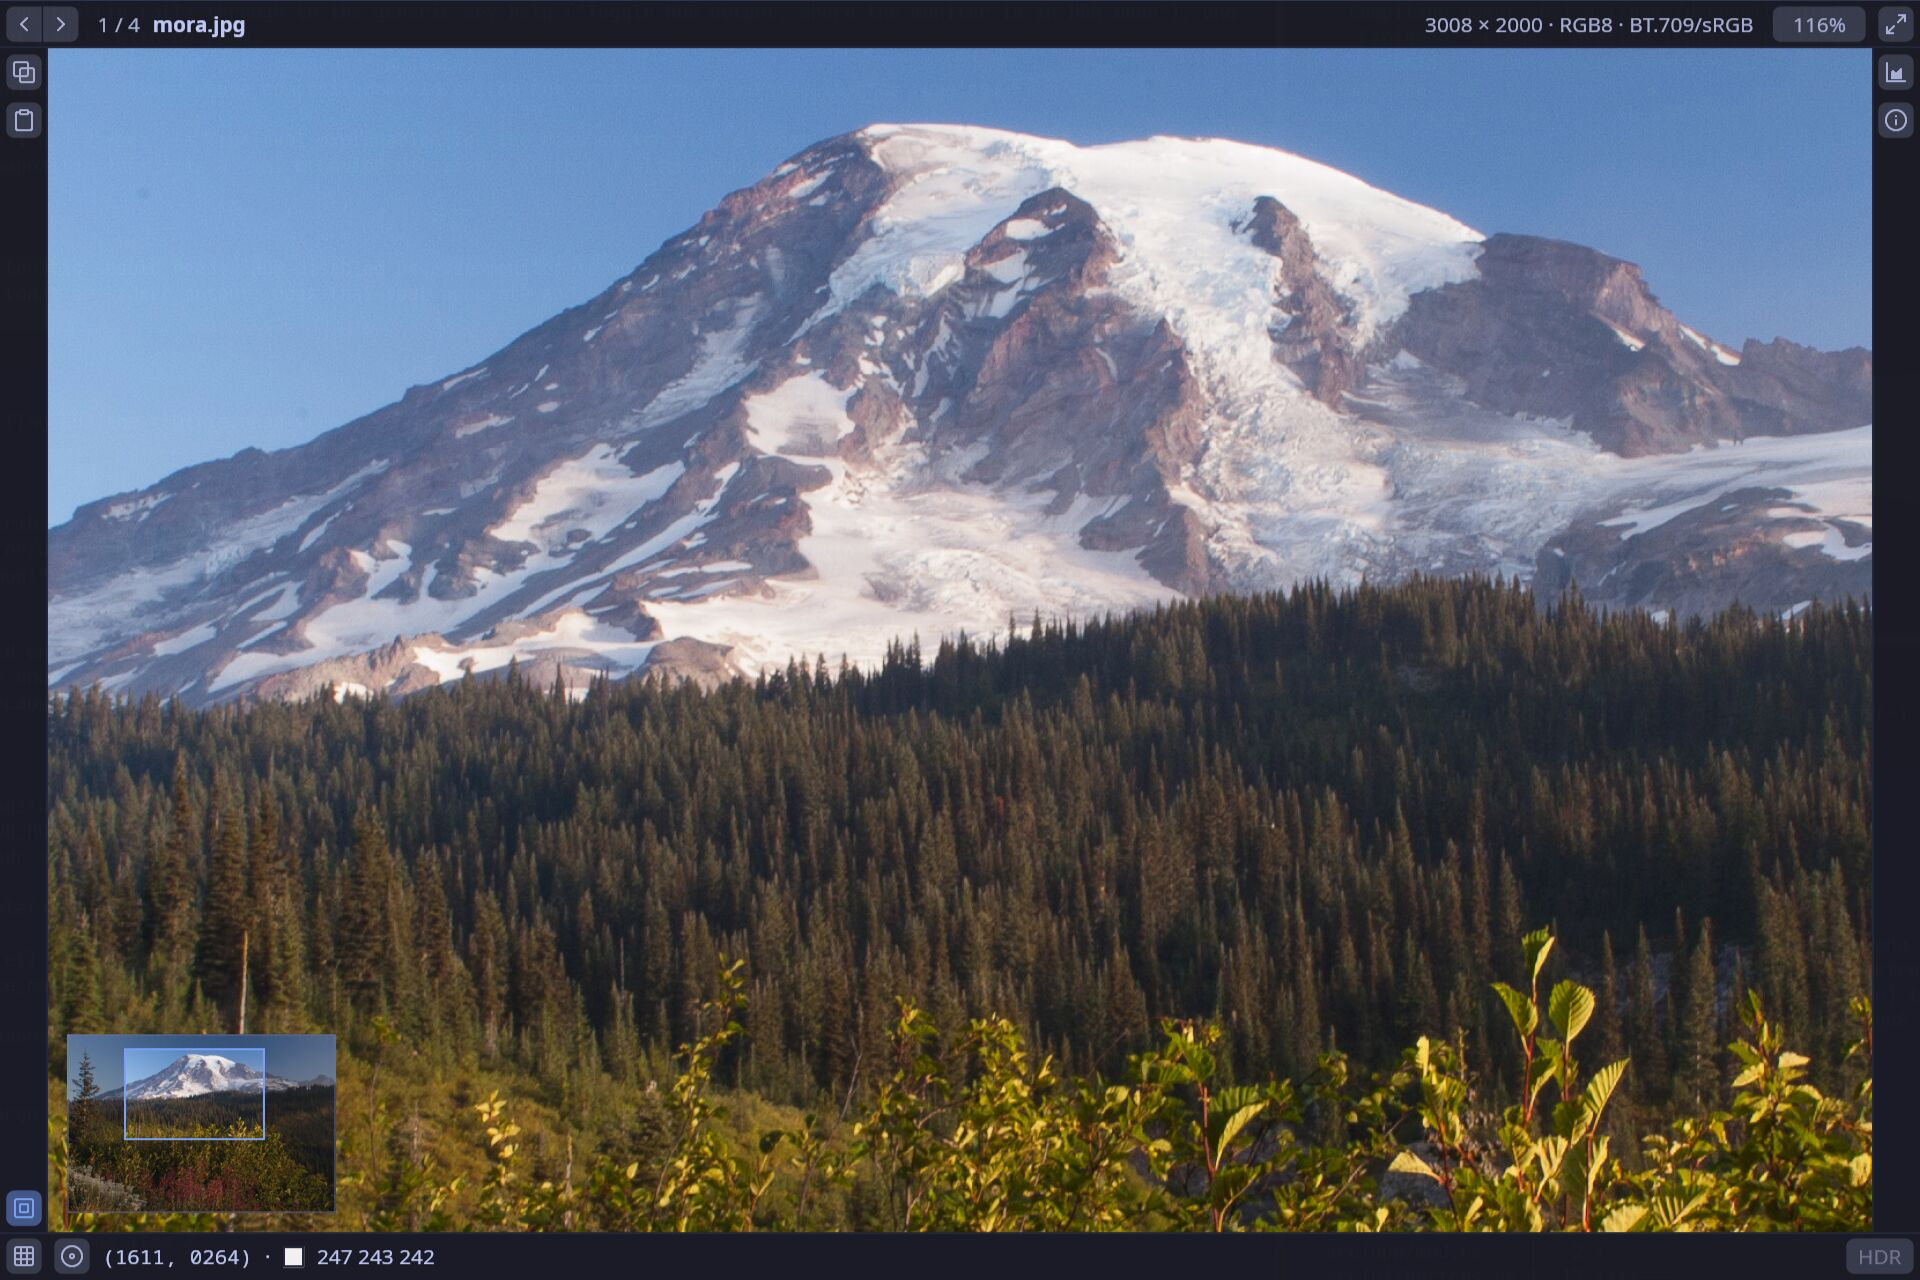
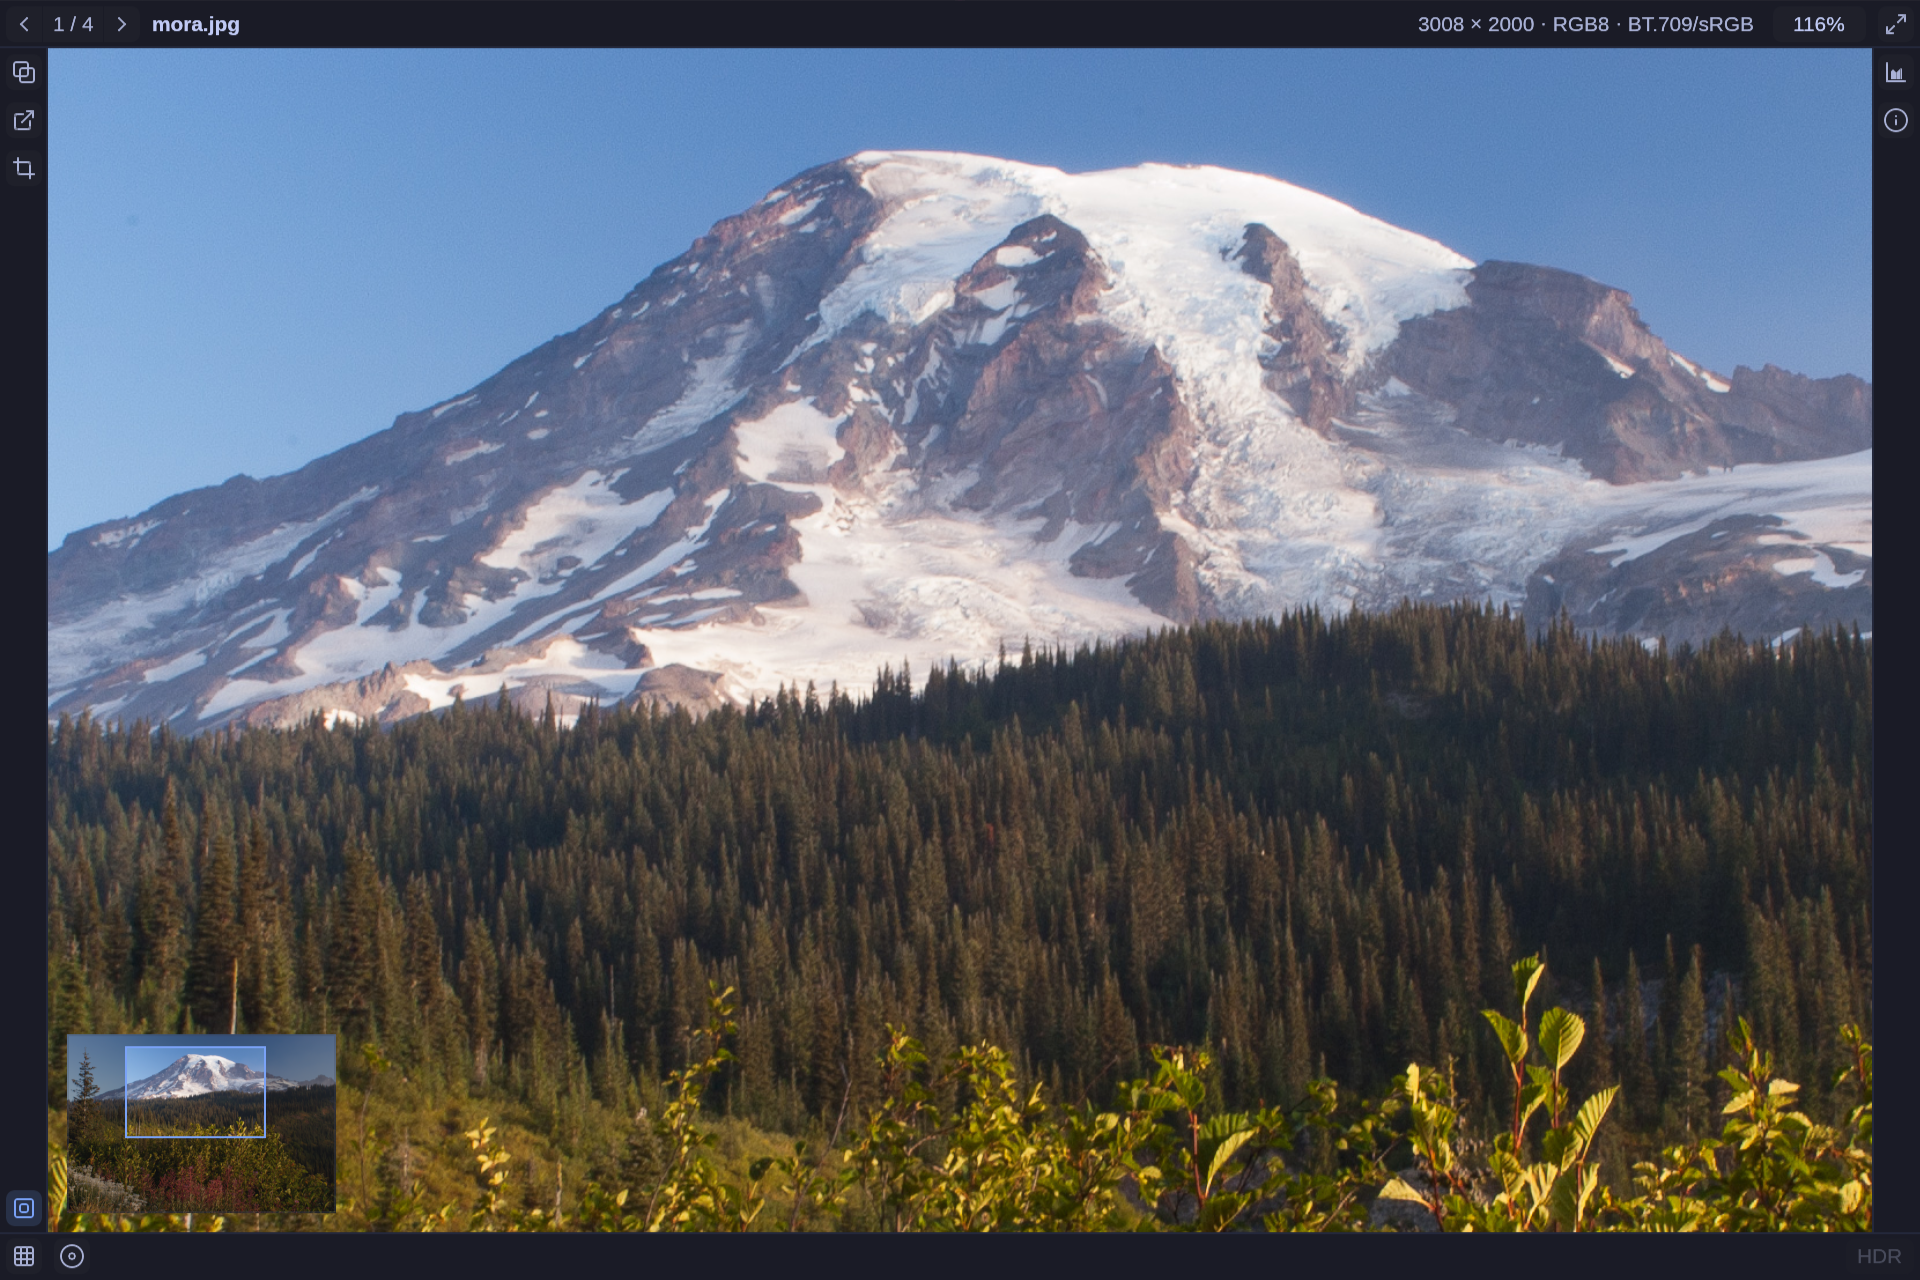
Update README

diff --git a/README.md b/README.md
@@ -12,7 +12,7 @@ All features can be keyboard driven but the hideable UI also contains discoverab
 
 ### OS themed
 
-Respects OS theme colors. Here's an example of Omarchy's Lupine and Tokyo Night themes.
+Respects OS theme colors. Here's an example of Omarchy's Tokyo Night and Gruvbox themes.
 
 ![Themes side by side](user-docs/screenshots/themes.gif)
 
@@ -22,7 +22,9 @@ Respects OS theme colors. Here's an example of Omarchy's Lupine and Tokyo Night 
 o.window("com.dcervelli.gamut", { float = true, center = true, tag = "-default-opacity", opacity = "1 1" })
 ```
 
-This will have the window open centered and floating with a reasonable and dynamic default size. For accurate image viewing, the window should be forced fully opaque.
+This will make the window open centered and floating with a reasonable, dynamic default size. For accurate image viewing, the window should be forced fully opaque.
+
+### Region selection/measurement
 
 ### Copy image
 
@@ -58,11 +60,11 @@ Luminance and per-channel histogram, with a linear or log count axis. Exposure i
 
 ### HDR
 
-Follows the monitor: an HDR surface where the compositor says the monitor is in HDR mode, SDR otherwise, and never asks the compositor to switch. PQ, HLG, OpenEXR, Radiance HDR and Ultra HDR gain-map JPEGs are shown at their graded brightness on an HDR surface and tone mapped on an SDR one. `o` toggles, `--output` forces.
+When available on the monitor, HDR sources are shown at their graded brightness. Tone mapped for SDR.
 
 ### Fuzzy file navigation
 
-`Ctrl+P` opens a chooser over the image. Type to filter the file list fuzzily (`dsc17` finds `DSC_0017.JPG`), across directories when the list spans more than one. Each row has a thumbnail, type, position in the list and size. Thumbnails are the freedesktop cache's own: ones the file manager made are reused, ones made here are written back.
+`ctrl+p` style navigation over the file list with thumbnails and helpful metadata per row. Thumbnails integrated into desktop cache.
 
 ### Animated/multi-image formats
 
@@ -76,11 +78,19 @@ Untagged files are treated as sRGB. ICC profiles (sRGB, Display P3, BT.2020 and 
 
 ### File comparison
 
-Every file is remembered as it was left: pan, zoom, window, exposure, tone map and false color. Flipping between two files with `[` and `]` therefore compares them rather than resetting them. A file opened for the first time inherits the current pan and zoom when it is the same size, so a directory of frames or exposures stays aligned under the same pixels.
+Navigating between images with the same dimensions maintains pan and zoom making detailed image comparison straightforward.
+
+This example compares a zoomed in region across DEM, hillshade, and relief images.
+
+![File comparison example](user-docs/screenshots/compare.gif)
 
 ### File/directory watch
 
-The file on screen is re-read within about half a second of anything writing to it, keeping pan, zoom and display settings. A directory named on the command line is re-listed as images are added or removed, so a render dropping frames into a folder builds the list as you watch. A file deleted from under the viewer stays on screen, marked `DELETED`.
+Files and directories are watched for changes, additions, or deletions. 
+
+In this example, a simple program is zooming into a point on the Mandelbrot set and updating an image every second.
+
+![Mandelbrot zoom via File Update](user-docs/screenshots/mandelbrot.gif)
 
 ### Metadata/EXIF extraction
 
@@ -90,15 +100,13 @@ Get file, image, EXIF, georeference, and other metadata. Easily copy all, by sec
 
 ### Many formats
 
-PNG, JPEG (with gain maps), JPEG XL, TIFF and BigTIFF, WebP, HEIF (HEIC and
-AVIF), GIF, ICO, BMP, netpbm, Radiance HDR and OpenEXR. 
-More details in [`user-docs/FORMATS.md`](user-docs/FORMATS.md).
+PNG, JPEG (with gain maps), JPEG XL, TIFF and BigTIFF, WebP, HEIF (HEIC and AVIF), GIF, ICO, BMP, netpbm, Radiance HDR and OpenEXR. More details in [`user-docs/FORMATS.md`](user-docs/FORMATS.md).
 
 ### Fast GPU display
 
 Decoding, uploading and thumbnailing run on their own threads; large TIFFs, HEICs and gain maps decode across every core. Exposure, window, tone map and false color are shader uniforms, so adjusting them never touches the pixels. Below 100% the image is drawn from a chain of exact area averages, so a frame costs the same however far out the view is. Images up to 4 GB decoded and 32768 pixels a side.
 
-### Desktop integration
+### Desktop/shell integration
 
 Registers as a handler for every format it reads, so it appears in file managers' "Open With" lists, and its own open button offers every other installed program that claims the file's type, read from the desktop's own MIME index. Ships a man page and bash, fish and zsh completions. Thumbnails are shared with the file manager through the freedesktop cache.
 
